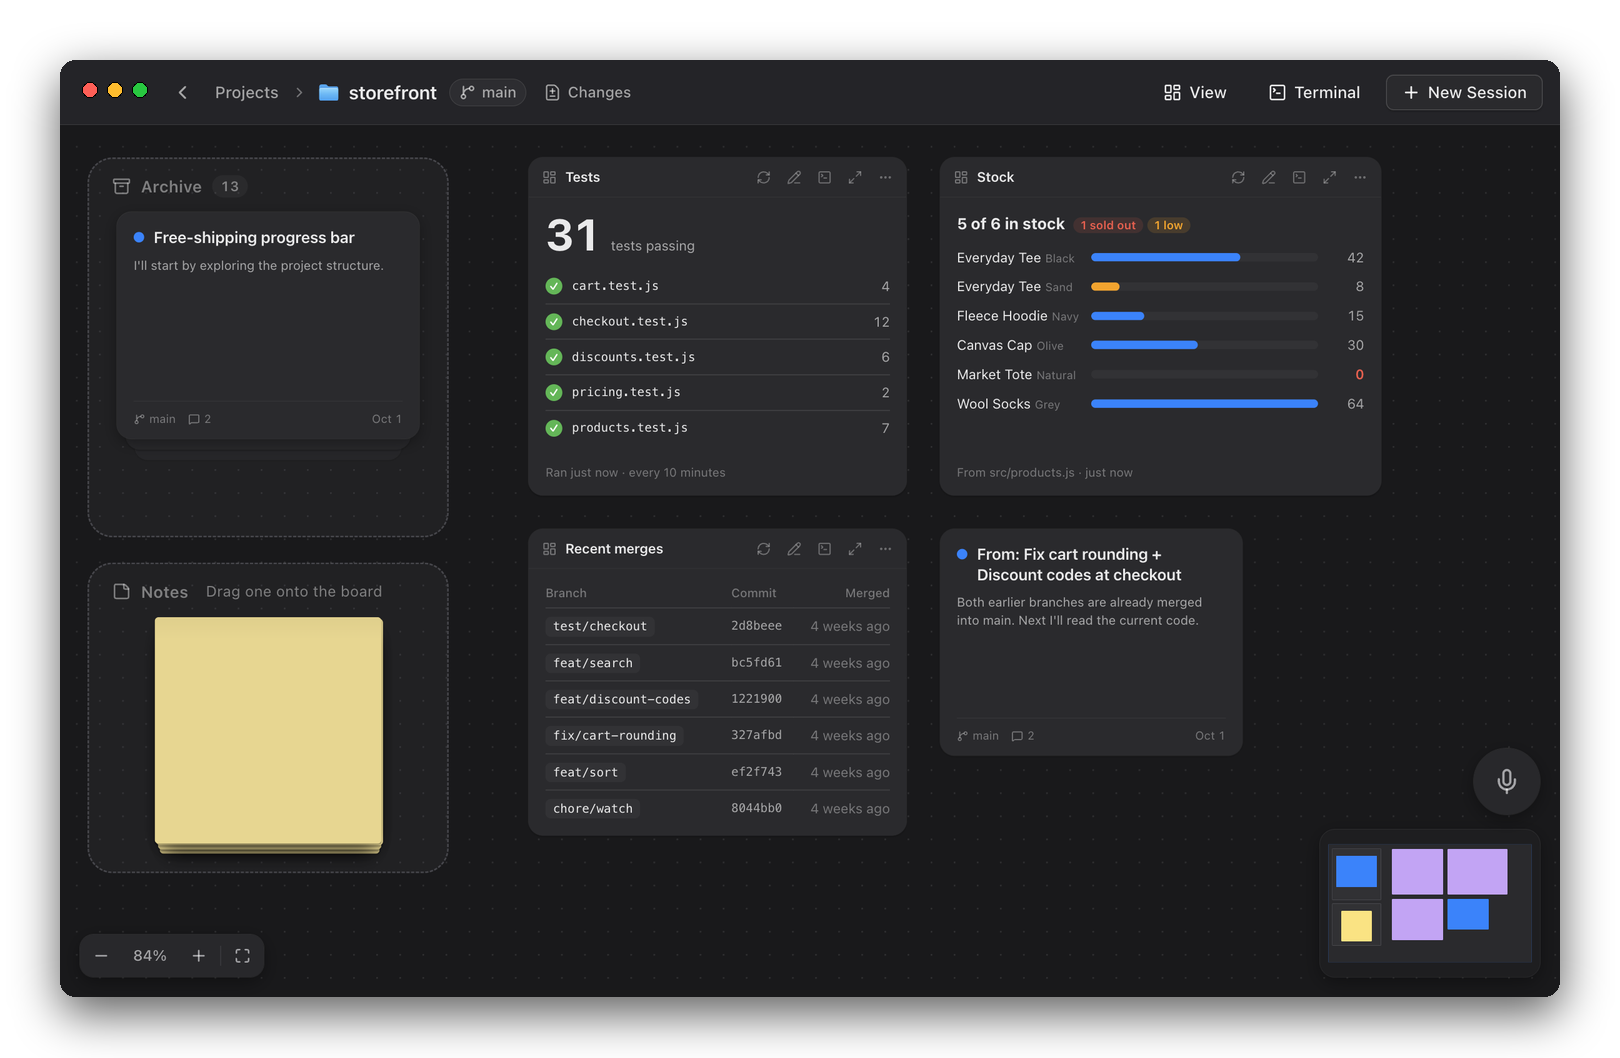
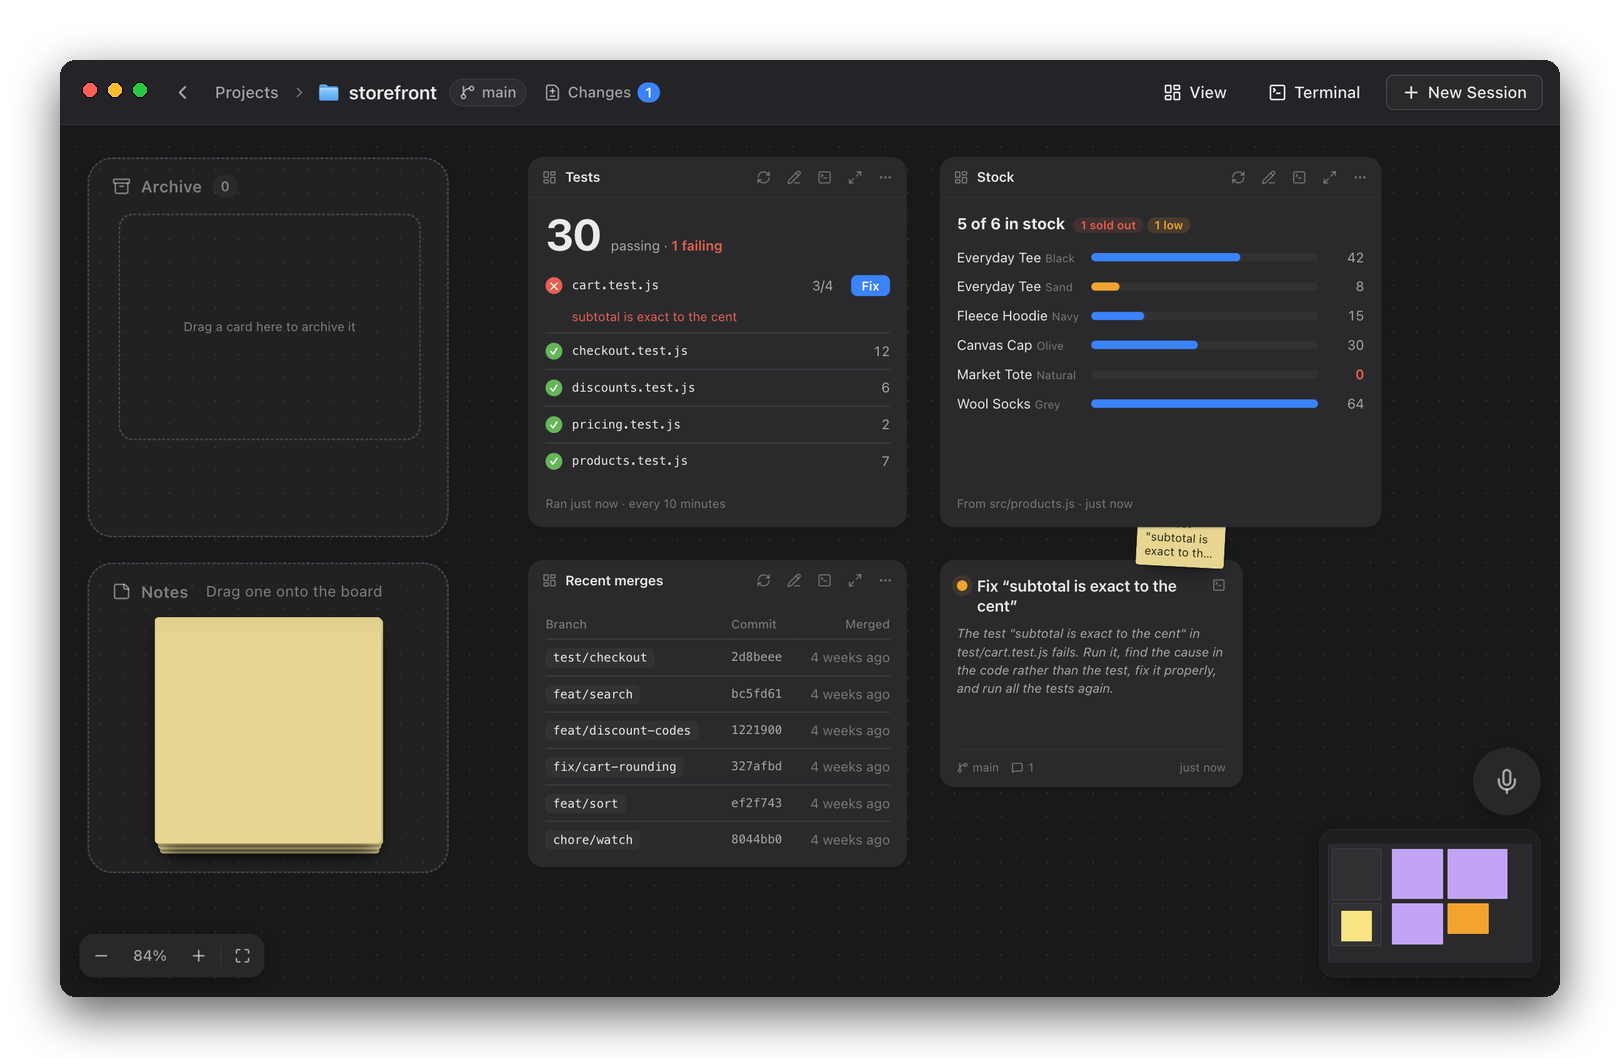
Show view buttons that start sessions on the landing page
The Views row now says a view can have buttons that start a session,
and its screenshot shows one: a failing test in the storefront demo
with a Fix button, and the real session it started working beside it.

diff --git a/docs/index.html b/docs/index.html
@@ -1036,15 +1036,16 @@ code { font-family: var(--font-mono); font-size: 0.92em; }
         <div class="feature-copy">
           <p class="feature-label"><i style="background: #34c759" aria-hidden="true"></i>Views</p>
           <h2 class="display">Any view you need, just by asking.</h2>
-          <p class="body">Describe what you want to keep an eye on, like your last deploys, a count from your database or your open tickets. Claude builds it as a live view on the board and keeps it fresh, with commands you allow or a Claude session of its own.</p>
+          <p class="body">Describe what you want to keep an eye on, like your tests, your last deploys or your open tickets. Claude builds it as a live view on the board and keeps it fresh. Ask, and it adds buttons that start a session, like Fix beside a failing test.</p>
           <ul class="feature-keys">
             <li><kbd class="kbd">View</kbd>describe a new one</li>
             <li><kbd class="kbd">✎</kbd>ask Claude to change it</li>
+            <li><kbd class="kbd">Fix</kbd>start a session from it</li>
           </ul>
         </div>
         <picture>
           <source media="(prefers-color-scheme: dark)" srcset="screenshots/views-dark.png">
-          <img class="shot" src="screenshots/views.png" width="1620" height="1058" loading="lazy" alt="Three views on the storefront board, showing its tests, stock per product and recent merges, beside a session card">
+          <img class="shot" src="screenshots/views.png" width="1620" height="1058" loading="lazy" alt="Views on the storefront board: a failing test with a Fix button, the session it started working beside it, stock per product and recent merges">
         </picture>
       </section>
     </div>
